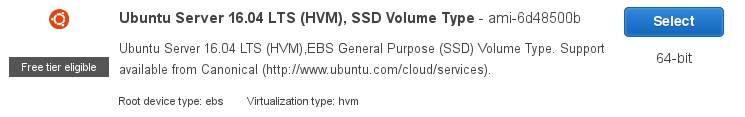
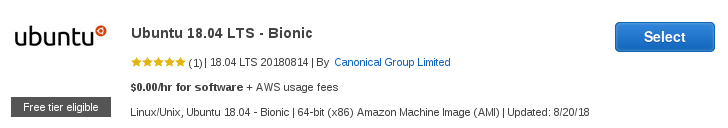
automatic setup: announce and support Ubuntu 18.04

diff --git a/getting_started/automatic/index.html b/getting_started/automatic/index.html
@@ -51,15 +51,15 @@
 
   <ul>
     <li>a <strong>Debian</strong> system (<a href="http://www.debian.org/distrib/netinst">amd64</a> recommended), or</li>
-    <li>a <strong>Ubuntu</strong> system (<a href="http://www.ubuntu.com/download/server">Ubuntu Server 16.04 LTS 64bit</a> or newer recommended)</li>
+    <li>a <strong>Ubuntu</strong> system (<a href="http://www.ubuntu.com/download/server">Ubuntu Server 18.04 LTS 64bit</a> or newer recommended)</li>
   </ul>
 
   <p>with &gt;=512MB RAM and &gt;=2GB of free disk space.</p>
 
   <div class="alert">
     <button type="button" class="close" data-dismiss="alert" href="#">×</button>
-    <strong>Ubuntu Server 12.04 LTS, 14.04 LTS + 16.04 LTS on Amazon EC2 are known to work fine out of the box.</strong>
-    <a href="https://aws.amazon.com/marketplace/pp/B01JBL2M0O">
+    <strong>Ubuntu Server 14.04 LTS, 16.04 + 18.04 LTS on Amazon EC2 are known to work fine out of the box.</strong>
+    <a href="http://aws.amazon.com/marketplace/pp/B07CQ33QKV">
         <img src="/img/ubuntu_ec2.png" />
     </a>
   </div>
